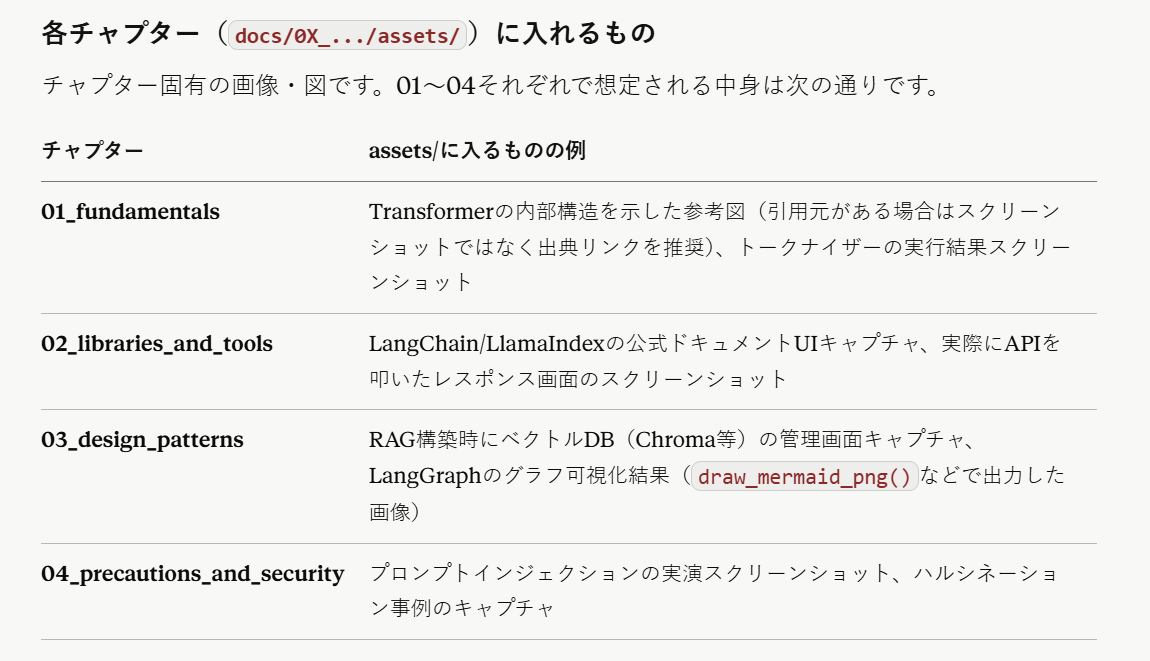
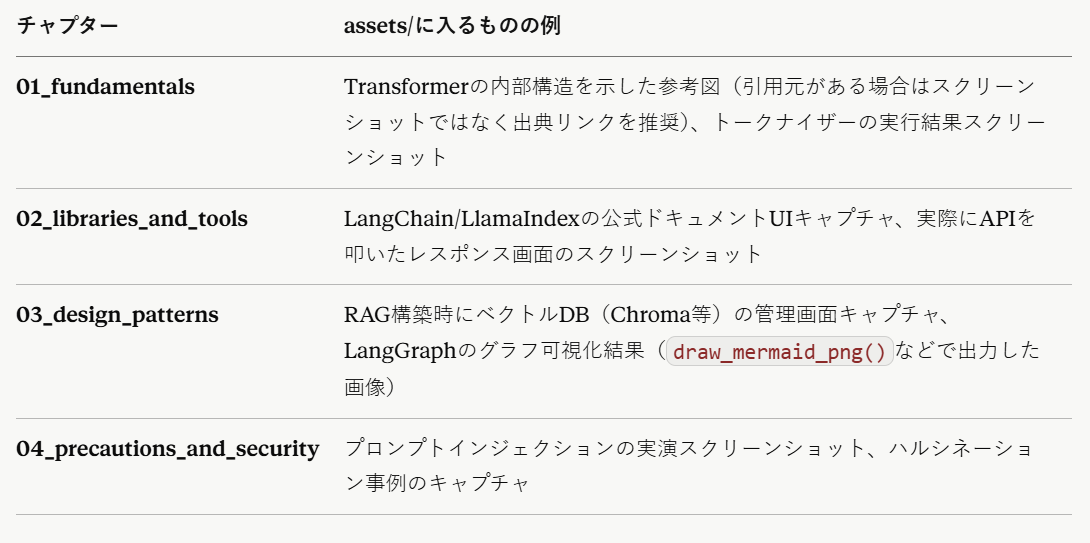
[add] 05_evaluation_and_monitoring: RAG評価指標とAI-Recipe-Bookでの実践例を追加 [fix] README: 関連リポジトリのURLプレースホルダーを修正 [update] README: 目次の05/06番号を実態に合わせて振り直し

diff --git a/docs/05_evaluation_and_monitoring/README.md b/docs/05_evaluation_and_monitoring/README.md
@@ -1,0 +1,113 @@
+# 06. 評価・モニタリング
+
+RAGやLLMを使ったアプリケーションは「動いているように見える」ことと「正しく動いている」ことが別物になりやすい。本章では、検索（Retrieval）と生成（Generation）それぞれの評価指標の基礎を整理した上で、実際に自分のポートフォリオプロジェクト（AI-Recipe-Book）で発見した実運用上の問題を、ケーススタディとしてまとめる。
+
+---
+
+## 1. RAGのどこを測るべきか
+
+RAGパイプラインは大きく2段階に分かれ、それぞれで評価すべきことが違う。
+
+```
+[ユーザーの質問]
+      ↓
+① Retrieval（検索）: 質問に関連するチャンクをVector DBから取り出す
+      ↓
+② Augmented Generation（生成）: 取り出したチャンクを元にLLMが回答を生成する
+      ↓
+[最終回答]
+```
+
+- **①の評価**：そもそも「正しい情報」を検索できているか（検索の質）
+- **②の評価**：検索した情報を元に、LLMが正確な回答を作れているか（生成の質。ハルシネーションしていないか）
+
+この2つを分けて考えられることが評価設計の出発点になる。混同していると、精度が低いときに検索が悪いのか生成が悪いのか切り分けられない。
+
+---
+
+## 2. 検索（Retrieval）の指標
+
+| 指標 | 意味 | 直感的な言い方 |
+|---|---|---|
+| **Precision@k** | 上位k件のうち、本当に関連していた割合 | 「検索結果のうち何割が当たりだったか」 |
+| **Recall@k** | 本当は関連するチャンク全体のうち、上位k件で拾えた割合 | 「拾うべき正解のうち何割拾えたか」 |
+| **MRR（Mean Reciprocal Rank）** | 最初に正解が出てきた順位の逆数の平均 | 「一番欲しい答えがどれだけ上に来たか」 |
+
+具体例（レシピ検索アプリで「鶏肉 唐揚げ 下味」というクエリを投げたとき）：
+
+- Vector DBに関連するチャンクが本当は4個ある
+- 上位5件の検索結果のうち3個が本当に関連していた
+- → Precision@5 = 3/5 = 0.6
+- → Recall@5 = 3/4 = 0.75
+
+---
+
+## 3. 生成（Generation）の指標：RAGASの主要4指標
+
+RAGAS（RAG Assessment）というライブラリを使うと、生成の質を自動計算できる。
+
+| 指標 | 何を測るか |
+|---|---|
+| **Faithfulness（忠実性）** | 生成された回答が、検索されたチャンクの内容に基づいているか（ハルシネーションしていないか） |
+| **Answer Relevancy（回答の関連性）** | 生成された回答が、ユーザーの質問にちゃんと答えているか |
+| **Context Precision（文脈の精度）** | 検索されたチャンクのうち、実際に回答に必要だったものの割合が高いか |
+| **Context Recall（文脈の再現率）** | 正解に必要な情報が、検索されたチャンクにちゃんと含まれていたか |
+
+イメージで覚えるなら、Faithfulnessは「回答が資料に沿っているか」、Context Precision/Recallは「そもそも良い資料を持ってこれたか」。前者が低ければ生成（プロンプト・LLM側）の問題、後者が低ければ検索（チャンクサイズ・埋め込みモデル・閾値）側の問題だと切り分けられる。
+
+---
+
+## 4. 評価用データセットの作り方
+
+RAGASは「質問」「正解（ground truth）」のペアがないと評価できない。既存のベンチマークは自分のドメインデータには使えないため、自分で作る必要がある。
+
+質問の種類にバリエーションを持たせることが重要：
+
+- 単純な検索質問（例：「鶏肉を使った煮物のレシピは？」）
+- 曖昧な質問（例：「あっさりした夕飯のメニュー」）
+- 複数条件の質問（例：「30分以内で作れる、卵を使わない朝食」）
+- 存在しない情報を聞く質問（ハルシネーション検出用。例：「牛肉の刺身レシピは？」）
+
+最後の「存在しない情報を聞く質問」は特に重要。LLMが「ありません」と正直に答えられるか、それとも作り話をするかで、Faithfulnessの実力が分かる。
+
+---
+
+## 5. 実践例：AI-Recipe-Bookでの埋め込みモデル未設定問題
+
+理論を学んだ後、実際に自分のポートフォリオプロジェクト（[AI-Recipe-Book](https://github.com/ktwpjmmxx/AI-Recipe-Book)）のRAG機能を検証したところ、実運用上の問題を発見した。
+
+### 発見の経緯
+
+1. 検索assist機能を実際に触って動作確認する中で、実在するレシピ名を含む質問（「ナシゴレンのレシピを教えて」）でも検索結果が0件になる事象を発見
+2. ChromaDBのコレクションを直接操作し、フィルター適用前の生の距離（コサイン距離）を確認したところ、全質問・全候補が0.85〜1.09という狭い範囲に密集しており、関連度閾値（0.85）を超えて全て除外されていたと判明
+3. 質問文にレシピ名がそのまま含まれるのに、そのレシピ自体が検索結果の上位に来ないという逆転現象も確認し、単なる閾値設定のミスではなく、埋め込みモデル自体が意味的な近さを正しく計算できていない可能性を疑った
+4. 原因は、ChromaDBの`get_or_create_collection()`で埋め込み関数（`embedding_function`）を明示的に指定しておらず、ChromaDBのデフォルト埋め込みモデル（英語中心、日本語の意味理解に弱い）が使われていたことだった
+
+### 学んだこと
+
+- 「動いているように見える（0件でもエラーにならない）」ことと「正しく動いている」ことは別物である
+- 閾値のチューニングだけでは直せない問題がある。閾値は「距離のスケールが妥当である」ことが前提であり、スケール自体がおかしい場合はまず埋め込みモデルを疑う必要がある
+- フィルター適用後の結果だけを見ていても原因は分からない。フィルター適用前の生の距離を確認することで、初めて「閾値が厳しすぎる」のか「そもそも埋め込みが機能していない」のかを切り分けられる
+- Before/Afterを同一の質問セット（表記ゆれ・口語表現・存在しない情報などのカテゴリを含む）で計測し、数値で比較することで、改善を客観的に主張できる
+
+### 対応と結果
+
+Gemini `gemini-embedding-001`に変更し、登録用（`RETRIEVAL_DOCUMENT`）と検索クエリ用（`RETRIEVAL_QUERY`）でtask_typeを使い分けた上で、同じ8質問で再計測した。
+
+質問文にレシピ名を含む基準ケースで、正解レシピの順位が4位→1位に改善し、全体の距離分布も0.89〜1.09という区別の付かない範囲から、0.19〜0.42という意味的な区別が可能な範囲に変化した。これに伴い、それまで実質的に機能していなかった関連度閾値も0.85から0.35に再調整した。
+
+詳細な計測データ・調査プロセス・検証スクリプトは[AI-Recipe-Book/docs/Version_5.3](https://github.com/ktwpjmmxx/AI-Recipe-Book/tree/main/docs/Version_5.3)を参照。
+
+### この経験から得た、他のプロジェクトにも応用できる教訓
+
+1. ベクトルDBの埋め込み関数は、ライブラリのデフォルトに頼らず必ず明示的に指定する
+2. 閾値の調整に着手する前に、まず生の距離分布を確認し、そもそも比較可能なスケールになっているかを検証する
+3. 「質問文にキーワードが完全一致するのに検索結果に出てこない」という現象は、埋め込みモデルの信頼性を疑う強いシグナルになる
+4. 副次的な発見（今回はレシピの重複登録、テストのベクトルDB隔離漏れ）も見逃さず、都度切り分けて対応する
+
+---
+
+## 参考資料
+
+- [RAGAS公式ドキュメント](https://docs.ragas.io/)
+- [AI-Recipe-Book](https://github.com/ktwpjmmxx/AI-Recipe-Book) — 本章の実践例の実装元

diff --git a/README.md b/README.md
@@ -15,8 +15,8 @@
 | 02 | [アプリケーション導入時の実践ライブラリ](./docs/02_libraries_and_tools/README.md) | OpenAI API、LangChain、LlamaIndexの比較と実装 | ✅ 完了 |
 | 03 | [設計思想・先進的なアーキテクチャ](./docs/03_design_patterns/README.md) | プロンプトエンジニアリング、RAG、エージェント型AI | ✅ 完了 |
 | 04 | [AI利用時の注意点とリスク管理](./docs/04_precautions_and_security/README.md) | ハルシネーション対策、プロンプトインジェクション、プライバシー | ✅ 完了 |
-| 05 | ファインチューニング実践 | LoRA/PEFTを用いたモデルのカスタマイズ | 🔜 予定 |
-| 06 | 評価・モニタリング | LLMアプリケーションの評価指標とロギング設計 | 🔜 予定 |
+| 05 | [評価・モニタリング](./docs/05_evaluation_and_monitoring/README.md) | RAG評価指標（Precision@k/Recall@k/RAGAS）と実践例 | ✅ 完了 |
+| 06 | ファインチューニング実践 | LoRA/PEFTを用いたモデルのカスタマイズ | 🔜 予定 |
 | 07 | MLOps / LLMOps | モデルのデプロイ・運用・継続的改善 | 🔜 予定 |
 
 > ✅ 完了　🚧 作成中　🔜 予定
@@ -67,7 +67,7 @@ generative-ai-handbook/
 
 ## 🔗 関連リポジトリ
 
-- 実装ポートフォリオ: [AI-Recipe-Book](https://github.com/) ※実際のURLに置き換えてください
+- 実装ポートフォリオ: [AI-Recipe-Book](https://github.com/ktwpjmmxx/AI-Recipe-Book) — RAG評価の実践例（本リポジトリ06章）はこちらで実装
 
 ---
 
